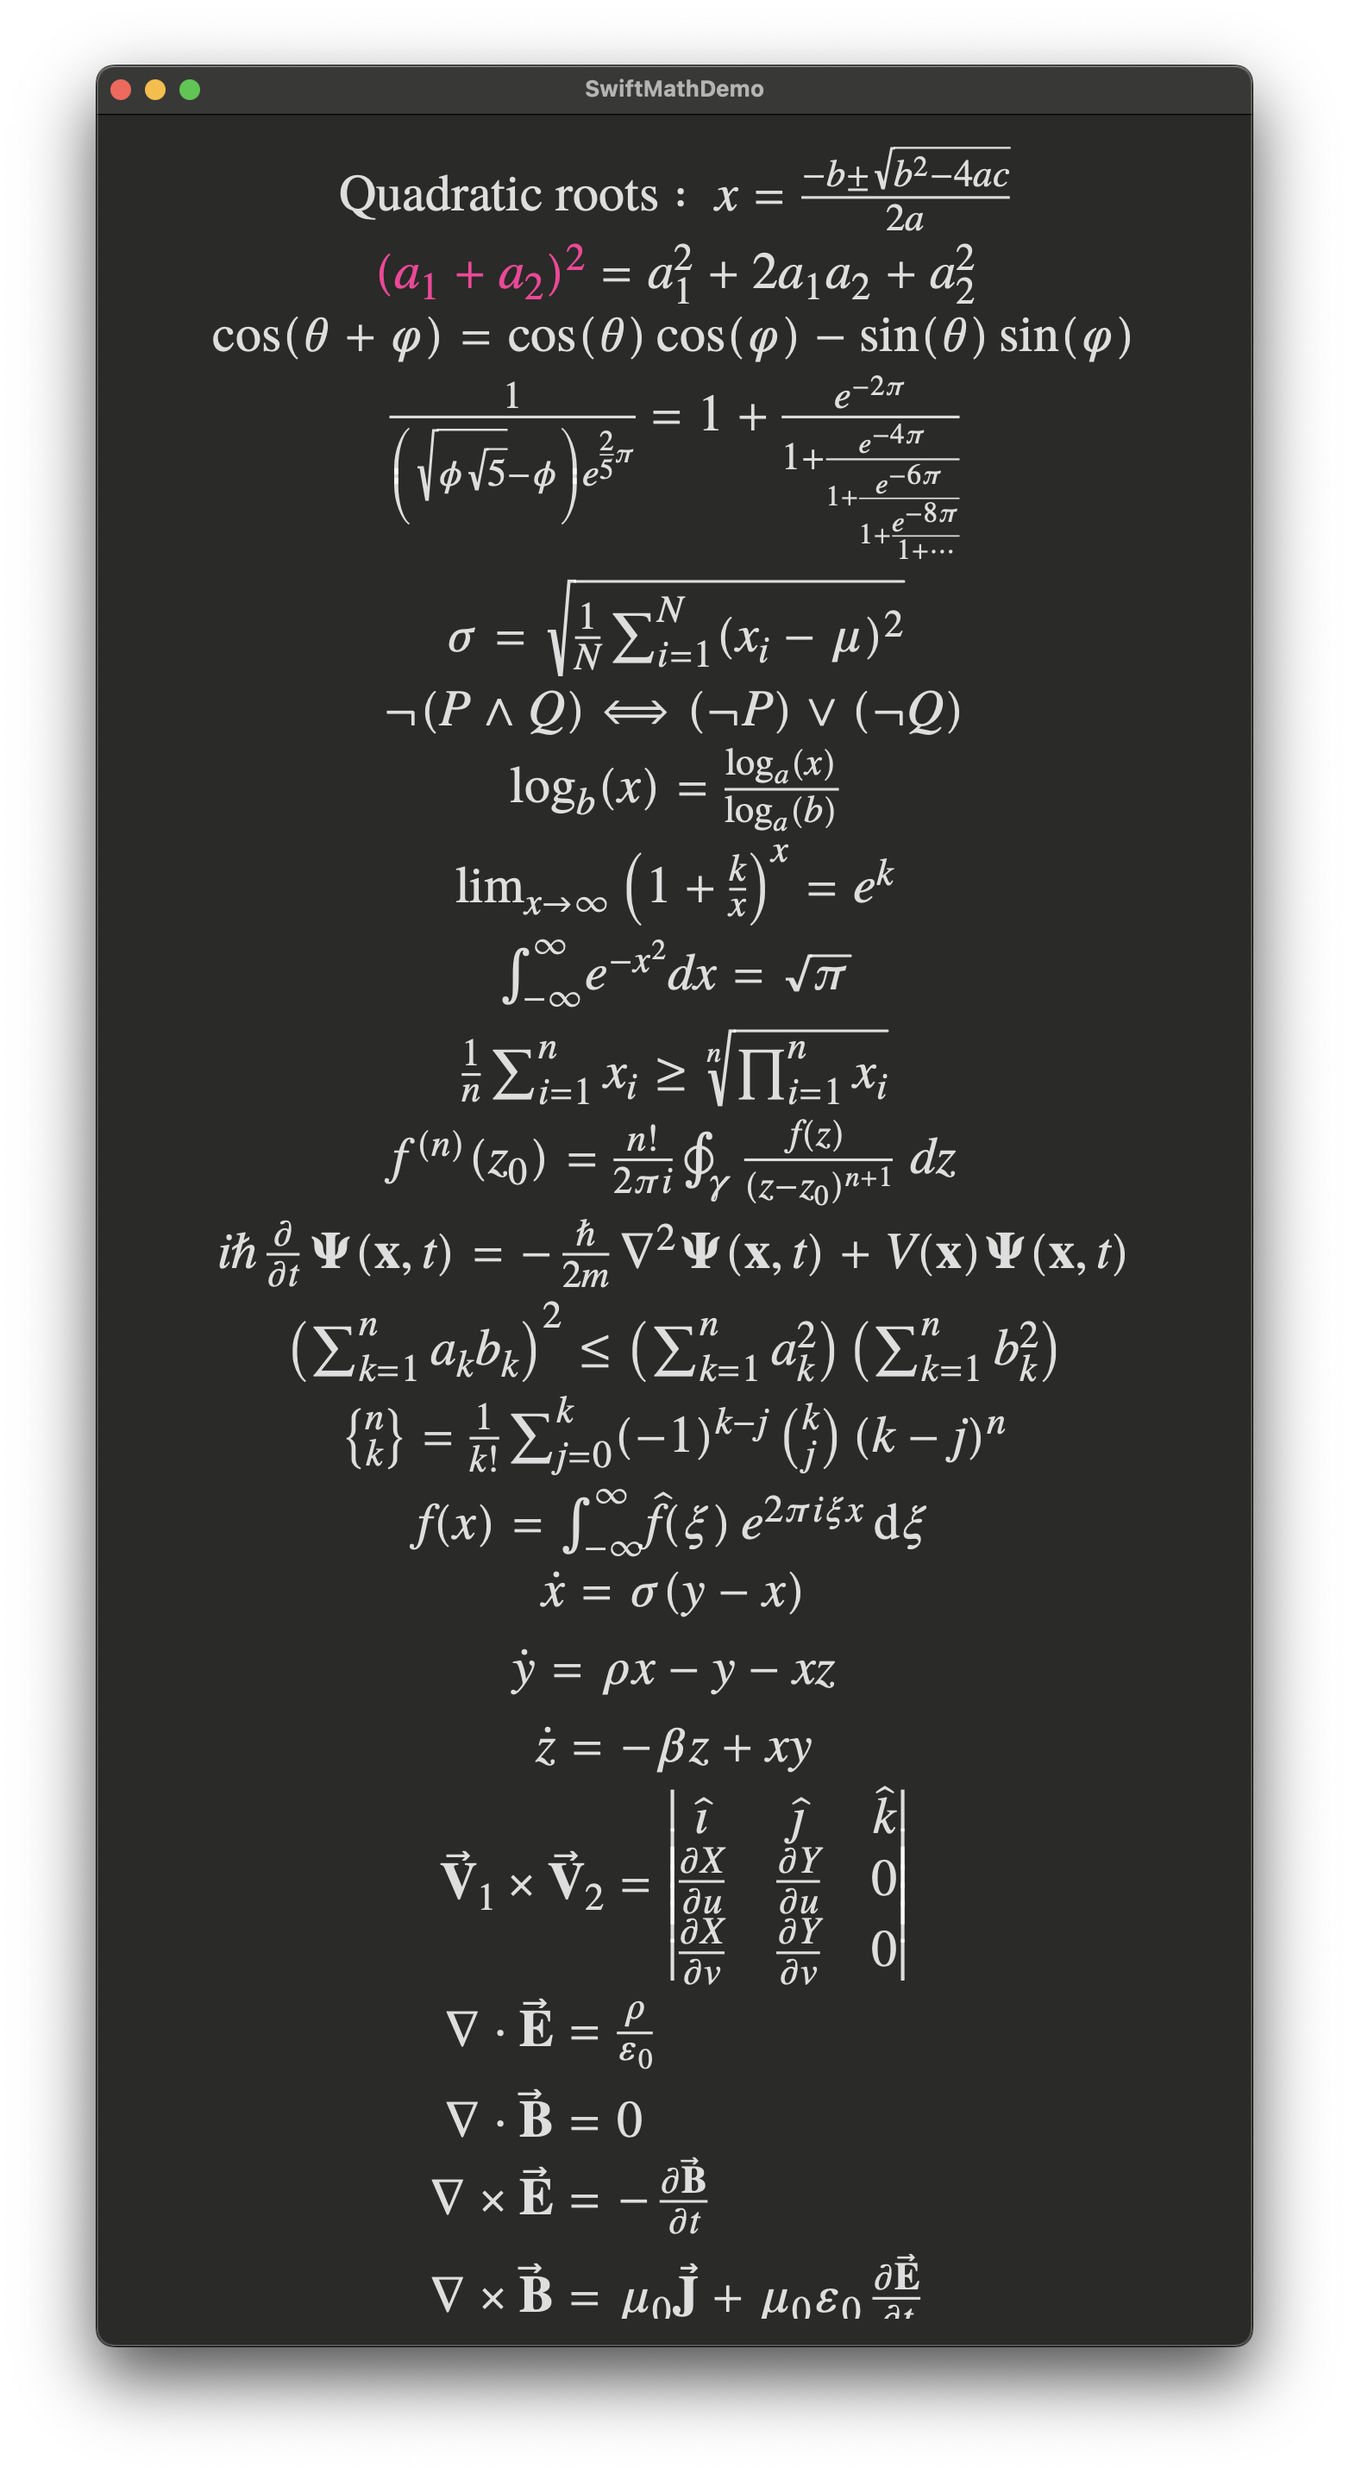
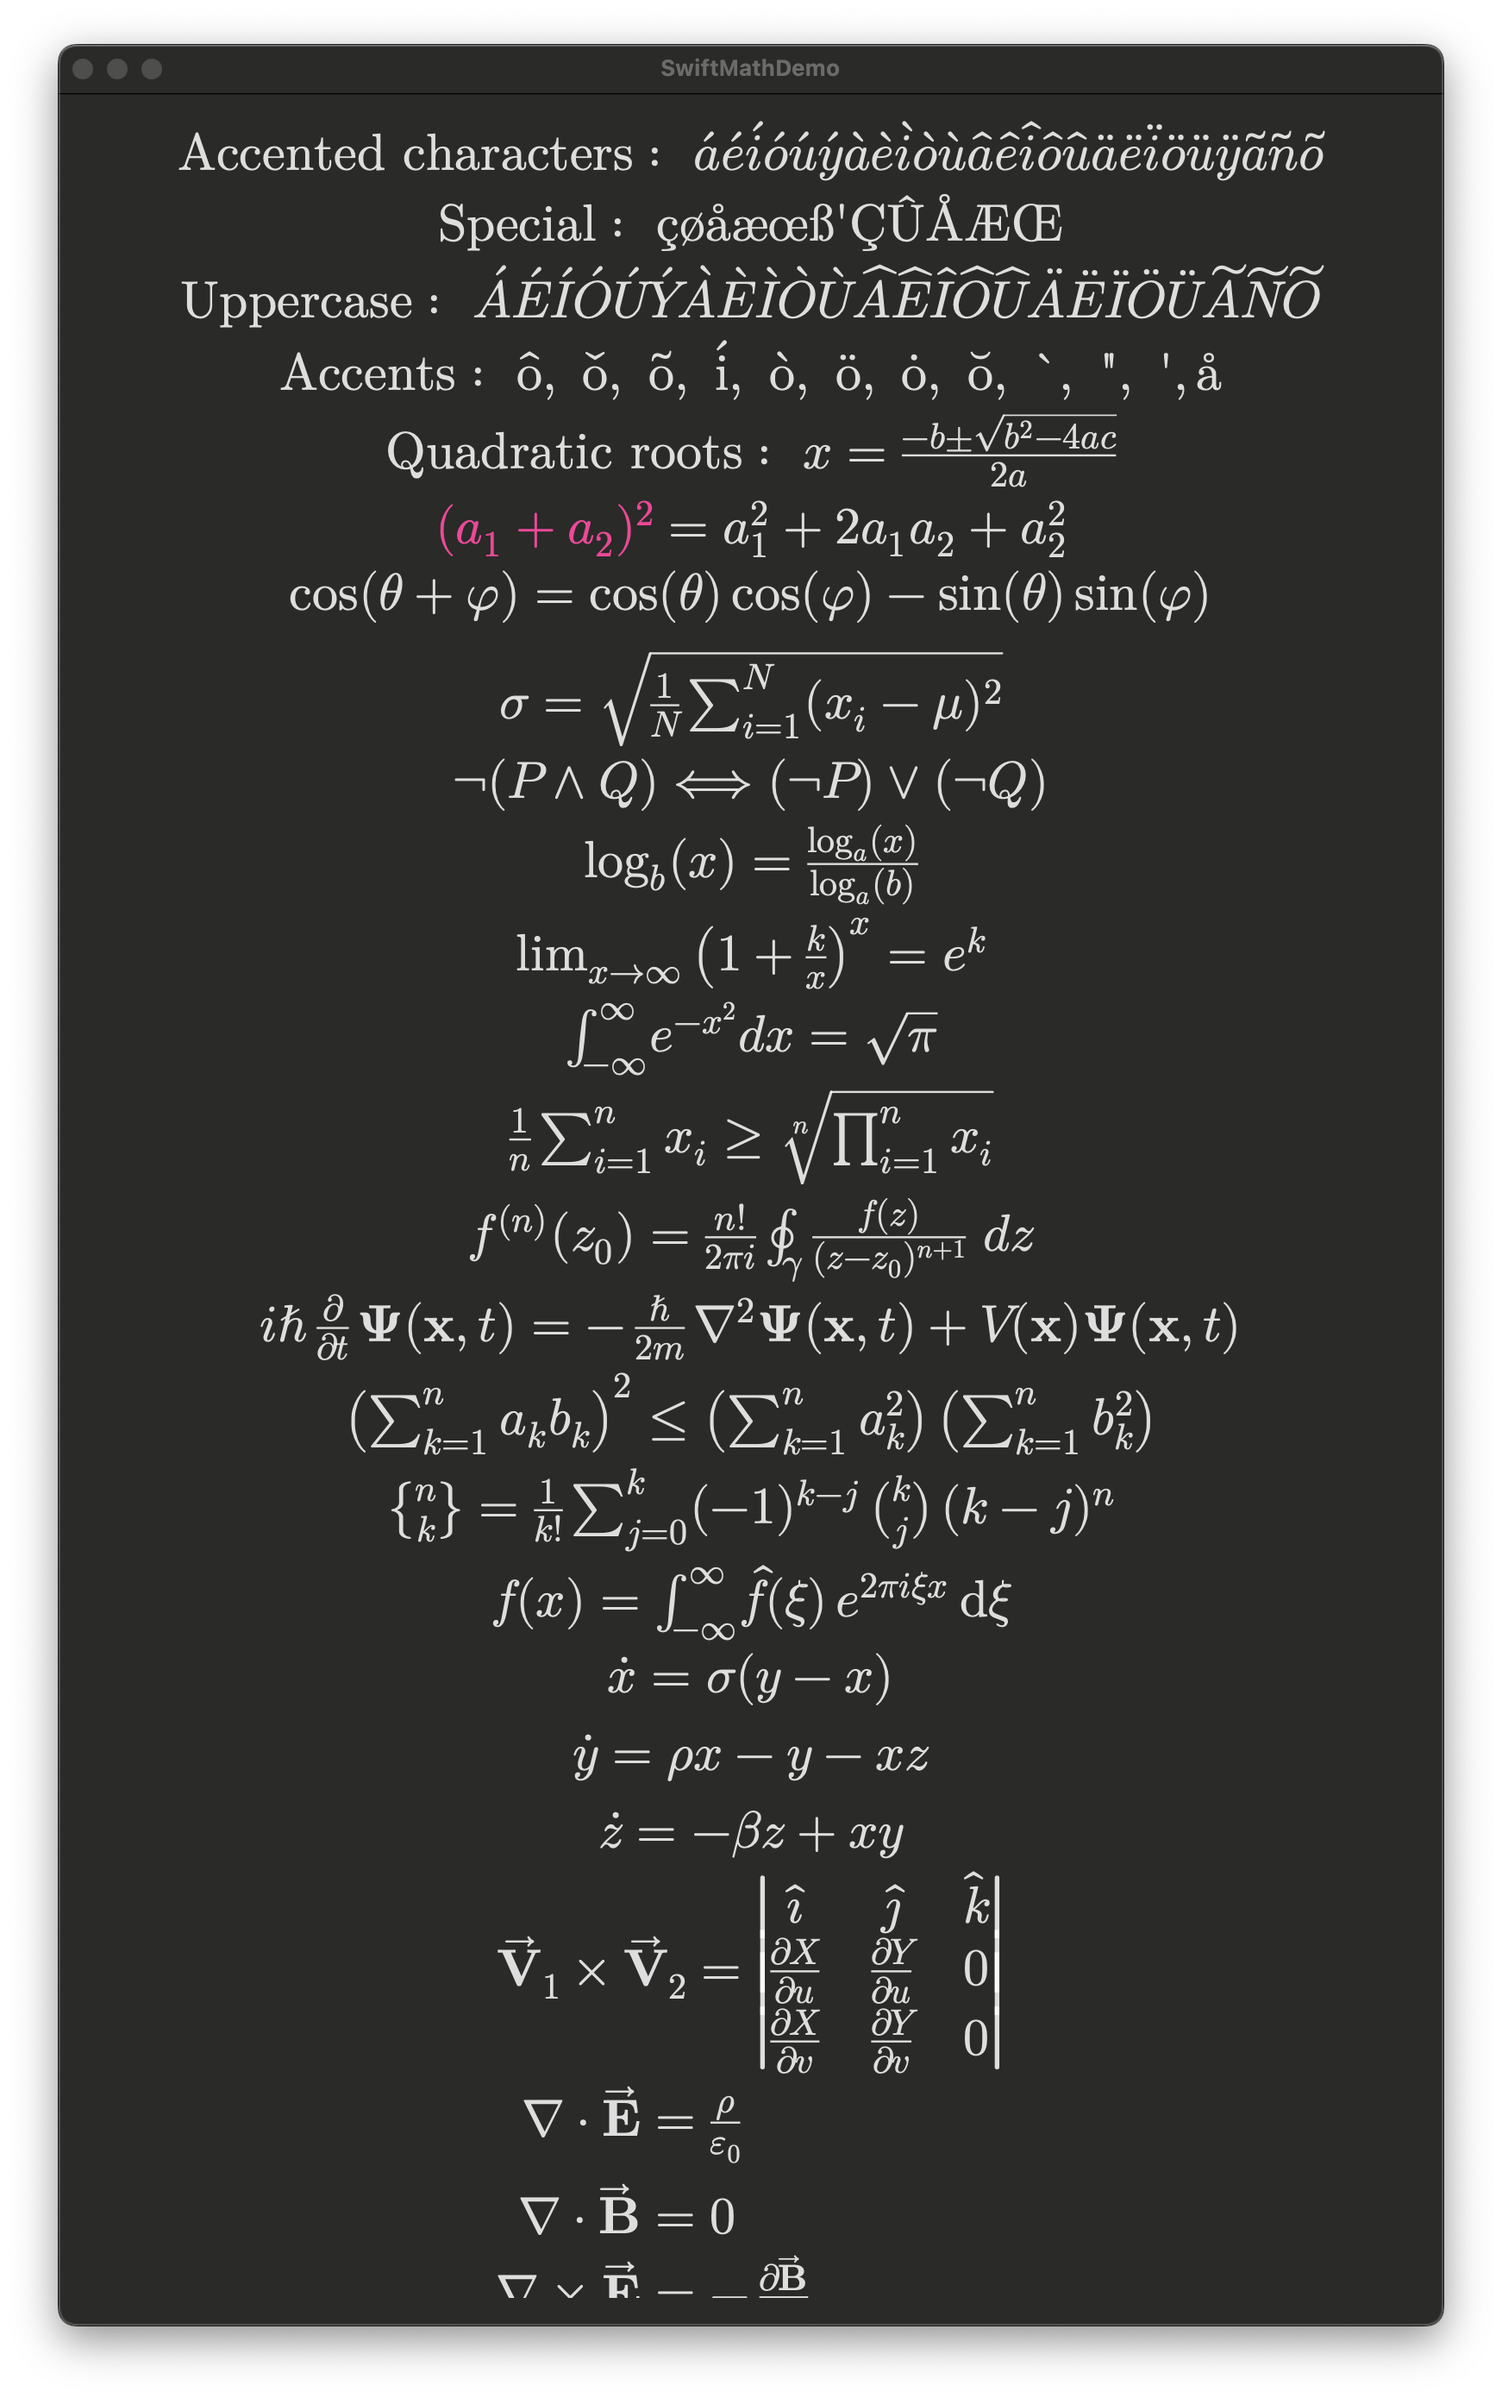
Updated demo to show in-text accents.

diff --git a/SwiftMathDemo/ContentView.swift b/SwiftMathDemo/ContentView.swift
@@ -14,12 +14,17 @@ struct ContentView: View {
     let previewFonts = false
     
     let demoLabels = [
+	//	"\\vec{AB}", 
+		"\\text{Accented characters: áéíóúýàèìòùâêîôûäëïöüÿãñõ}",
+		"\\text{Special: çøåæœß'ÇØÅÆŒ}",
+		"\\text{Uppercase: ÁÉÍÓÚÝÀÈÌÒÙÂÊÎÔÛÄËÏÖÜÃÑÕ}",
+		"\\text{Accents: \\hat{o}, \\check{o}, \\tilde{o}, \\acute{i}, \\grave{o}, \\ddot{o}, \\dot{o}, \\breve{o}, `, \", \\upquote}, \\aa",
         "\\text{Quadratic roots: }x = \\frac{-b \\pm \\sqrt{b^2-4ac}}{2a}",
         "\\color{#ff3399}{(a_1+a_2)^2}=a_1^2+2a_1a_2+a_2^2",
         "\\cos(\\theta + \\varphi) = \\cos(\\theta)\\cos(\\varphi) - \\sin(\\theta)\\sin(\\varphi)",
         """
         \\frac{1}{\\left(\\sqrt{\\phi \\sqrt{5}}-\\phi\\right) e^{\\frac25 \\pi}} 
-            = 1+\\frac{e^{-2\\pi}} {1 +\\frac{e^{-4\\pi}} {1+\\frac{e^{-6\\pi}} {1+\\frac{e^{-8\\pi}} {1+\\cdots} } } }
+            = 1+\\frac{e^{-2\\piā} {1 +\\frac{e^{-4\\pi}} {1+\\frac{e^{-6\\pi}} {1+\\frac{e^{-8\\pi}} {1+\\cdots} } } }
         """,
         "\\sigma = \\sqrt{\\frac{1}{N}\\sum_{i=1}^N (x_i - \\mu)^2}",
         "\\neg(P\\land Q) \\iff (\\neg P)\\lor(\\neg Q)",
@@ -178,7 +183,7 @@ struct ContentView: View {
     }
     
     let chars =
-     """
+	"""
     \\text{ABCDEFGHIJKLMOPQRSTUVWXYZ} \\\\
     \\text{abcdefghijklmnopqrstuvwxyz 0123456789} \\\\
     \\text{<>?.,+-[]\\{\\}|=\\_()*\\%\\$!@\\#}

diff --git a/README.md b/README.md
@@ -12,10 +12,10 @@ XCode: https://github.com/mgriebling/SwiftMath.git
 Here are screenshots of an iPad, iPhone, and Mac running the demo:
 
 ![iPad Screenshot](images/lightiPad.png#gh-light-mode-only)
-![iPad Screenshot](images/darkiPad.jpeg#gh-dark-mode-only)
+![iPad Screenshot](images/darkiPad.png#gh-dark-mode-only)
 
 ![iPhone Screenshot](images/darkiPhone.png#gh-dark-mode-only)
-![iPhone Screenshot](images/lightiPhone.jpeg#gh-light-mode-only)
+![iPhone Screenshot](images/lightiPhone.png#gh-light-mode-only)
 
 ![Quadratic Formula](images/darkiMac.png#gh-dark-mode-only)
 ![Quadratic Formula](images/lightiMac.png#gh-light-mode-only)
